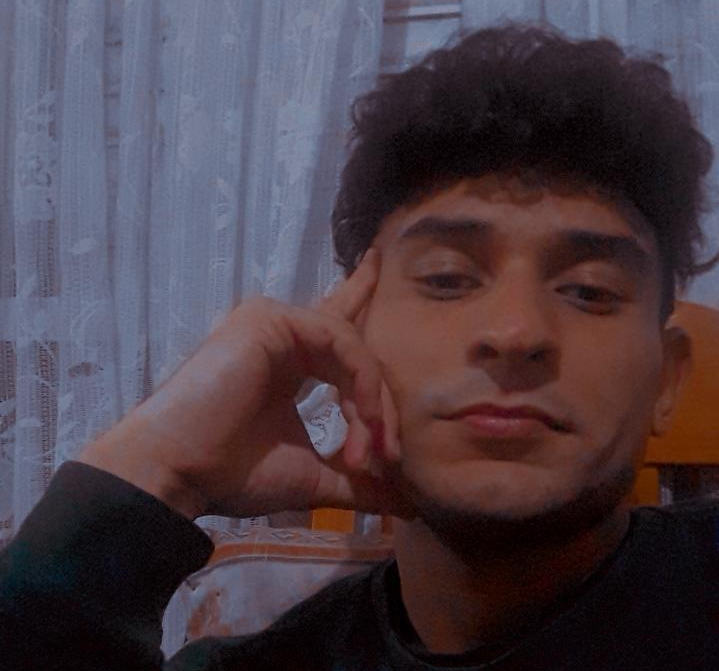
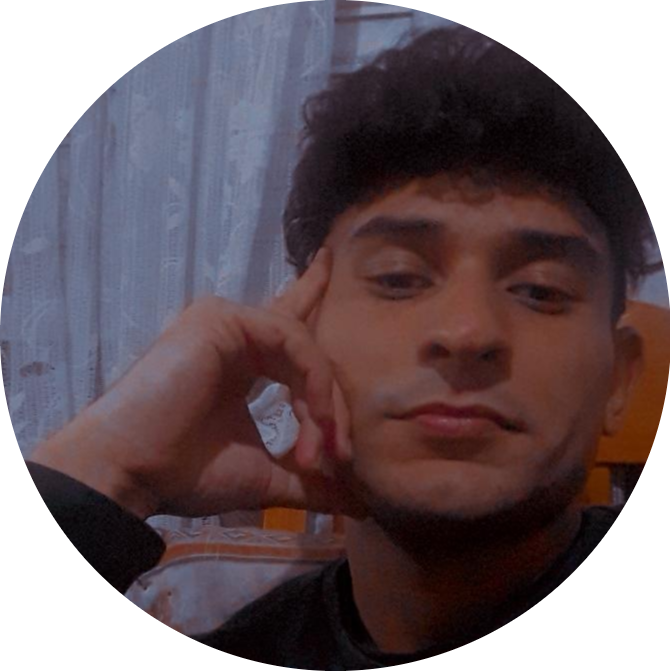
save changes

diff --git a/README.md b/README.md
@@ -1,5 +1,5 @@
 <p align="center" width="300">
-   <img align="center" width="200" border="12" src="./perfil3.png" style='border-radius: 100%'/>
+   <img align="center" width="200" src="./perfil3.png"/>
    <h3 align="center">¡Hola a todos👋! Soy Pablo 👨🏻💻</h3>
 </p>
 
@@ -12,8 +12,8 @@
   <img src="./assets/img/next-js.png" width="50" height="50" align="center"/>
     &nbsp;
   <img src="./assets/img/react.png" width="50" height="45" align="center"/>
-    <img src="./assets/img/typescript.svg" width="50" height="50" align="center" style='margin-left: 1em'/>
     &nbsp;
+    <img src="./assets/img/typescript.svg" width="50" height="50" align="center"/>
     &nbsp;
       <img src="./assets/img/tailwindcss.png" width="50" height="50" align="center"/>
     &nbsp;
